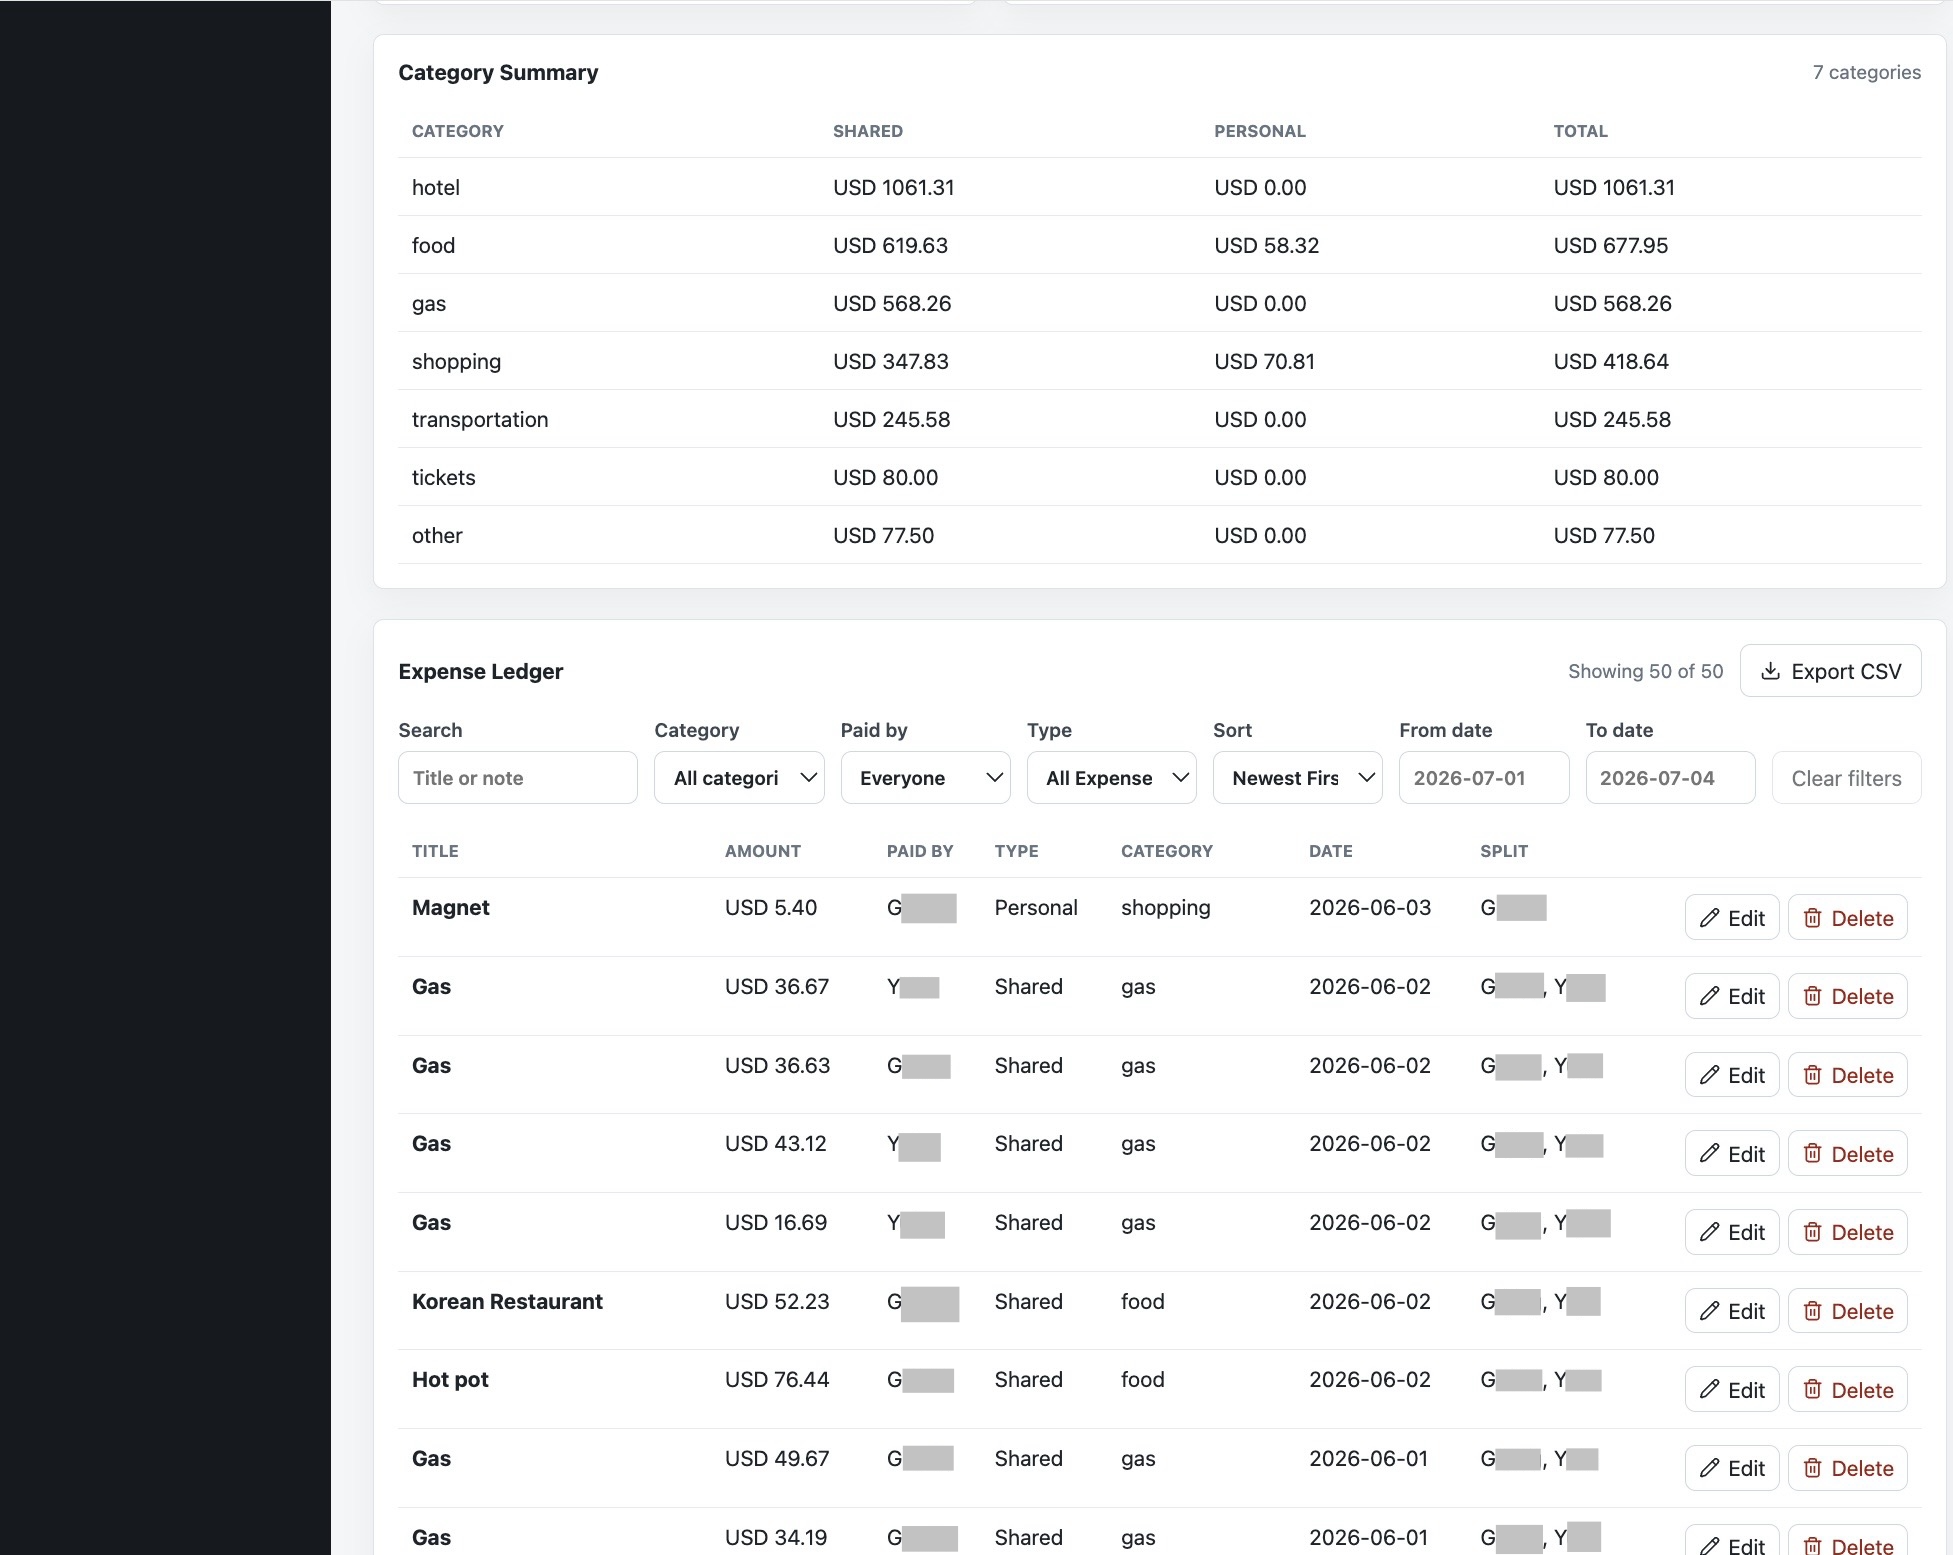
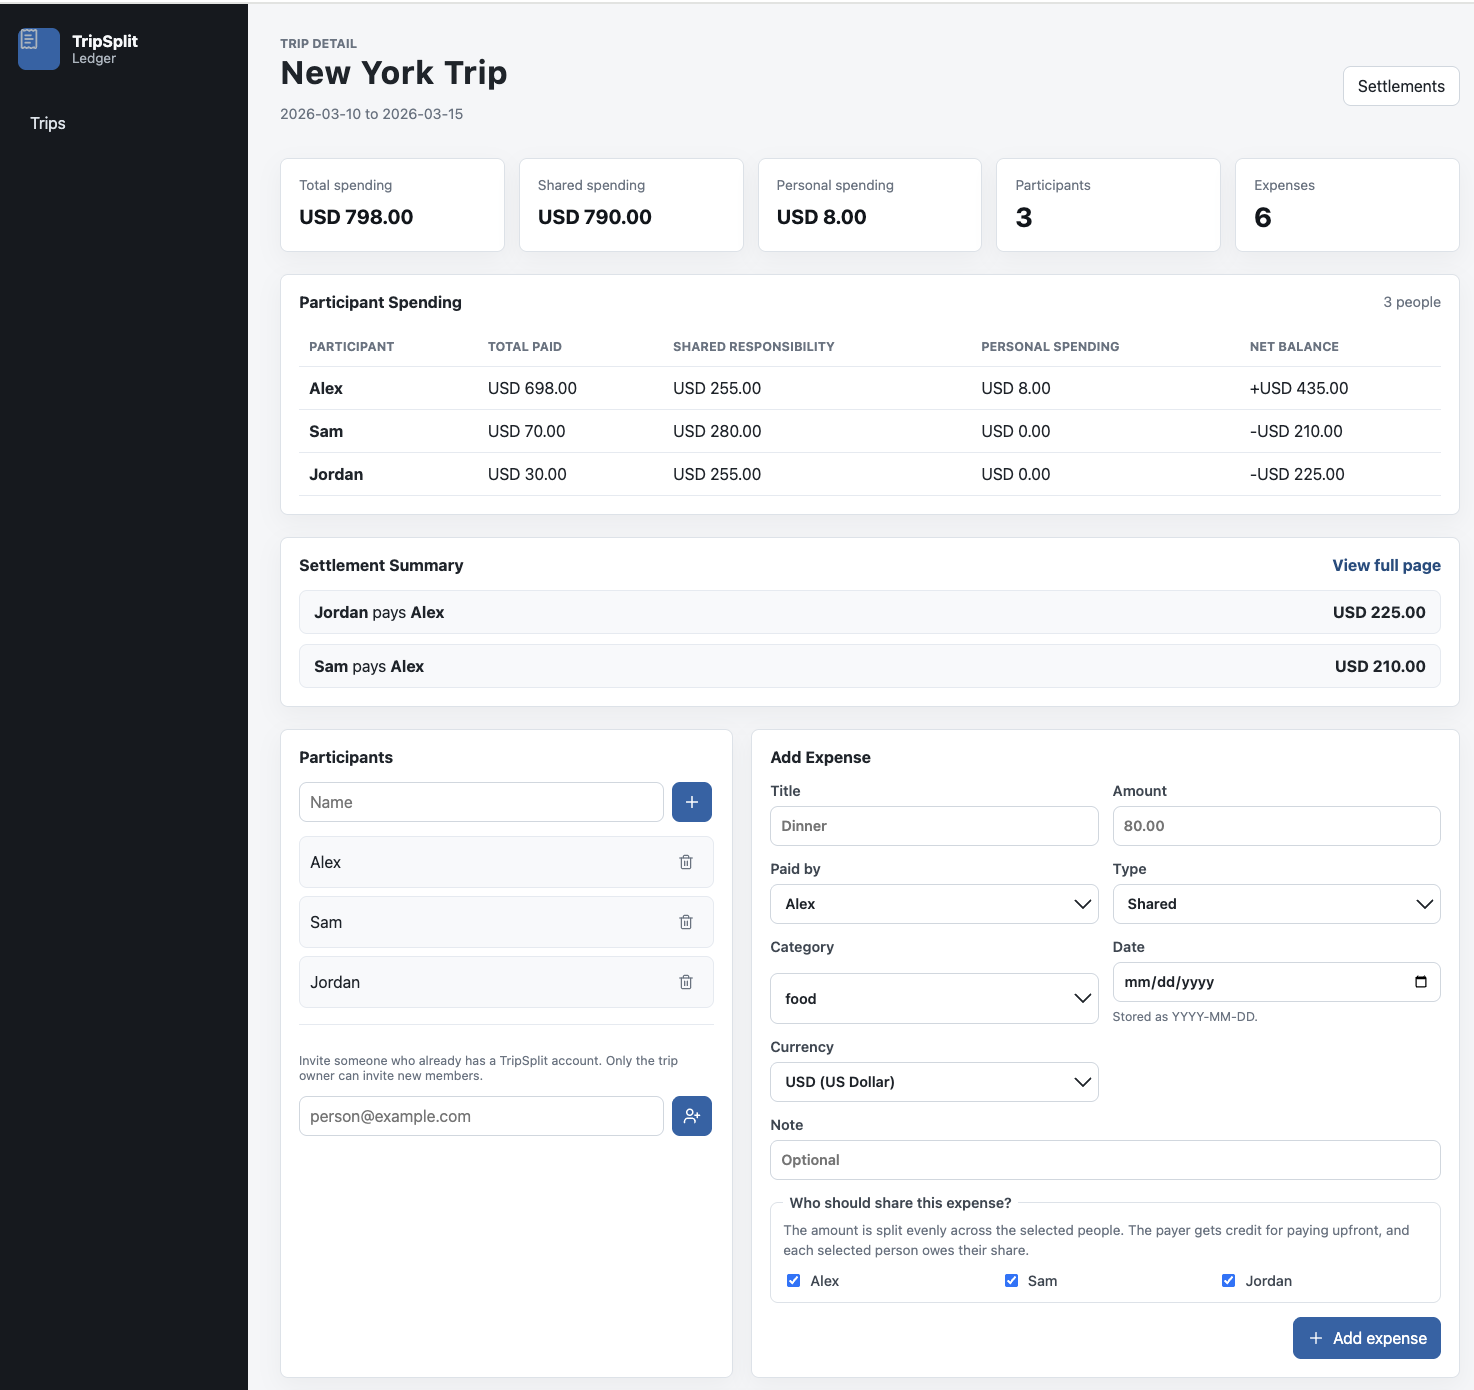
Add live demo link, screenshots, and deployment docs
- Add live demo URL to the top of the README
- Update the Deployment section with the actual Railway/Vercel URLs
- Remove the "not deployed yet" limitation, now that it's live
- Add trip-detail.png and expense-ledger.png screenshots (demo account,
  no real user data)

diff --git a/README.md b/README.md
@@ -2,6 +2,8 @@
 
 [![CI](https://github.com/GGGUJINGGG/tripsplit-ledger/actions/workflows/ci.yml/badge.svg)](https://github.com/GGGUJINGGG/tripsplit-ledger/actions/workflows/ci.yml)
 
+**Live demo:** [tripsplit-ledger.vercel.app](https://tripsplit-ledger.vercel.app) — register your own account to try it (see [Deployment](#deployment) for how the frontend/backend are hosted).
+
 After a group trip, I used Splitwise to settle expenses with friends and ran into a few frustrations: the free tier limits how many expenses you can log per day, and it doesn't show a full spending breakdown for the trip — only who owes whom. I wanted to see total spending by category, by day, and per person, not just the final settlement numbers.
 
 That gap was the starting point. As I logged our actual trip expenses into an early version of this app, I kept noticing other things I wanted — filtering, expense types, CSV export, a per-person spending summary — and added them one by one. TripSplit Ledger is the result: a personal expense tracker built around how I actually think about group travel spending.
@@ -47,13 +49,11 @@ The current implementation uses a React/Vite frontend, a FastAPI backend, and Po
 
 ## Known Limitations
 
-- **Local development only** — accounts, login, and trip-level authorization are implemented, but the app is not deployed anywhere yet. Running it requires a local PostgreSQL instance and backend/frontend processes.
 - **No multi-currency settlement** — expenses can be tagged with a currency, but settlement calculations are hidden when a trip mixes currencies. Exchange-rate conversion is not yet implemented. The backend's `/dashboard` totals (spending by category/day, paid/owed per person) are also not currency-segmented — they sum raw amounts across currencies, so those numbers aren't meaningful for a mixed-currency trip. The frontend works around this by computing its own per-currency breakdowns instead of relying on those backend fields.
-- **Local development setup** — PostgreSQL currently runs through Docker Compose. Production database configuration and hosted deployment are not yet included.
+- **No frontend UI for trip renaming/deletion or inviting members beyond the invite form** — the API enforces owner-only rules for these, but only invite-by-email has a frontend entry point today.
 
 ## Planned
 
-- Production deployment for the API, database, and frontend
 - Exchange-rate conversion to enable settlements across mixed-currency trips
 - Budget tracking per trip or per category
 
@@ -202,7 +202,12 @@ By default, the frontend calls the backend at `http://localhost:8000/api`.
 
 ## Deployment
 
-The backend deploys as a container (`backend/Dockerfile`) to [Railway](https://railway.app), and the frontend deploys as a static build to [Vercel](https://vercel.com). Both offer free tiers with GitHub-based auto-deploy — pushing to `main` redeploys automatically once connected.
+The backend runs as a container (`backend/Dockerfile`) on [Railway](https://railway.app), and the frontend is a static build on [Vercel](https://vercel.com). Both are connected to this repo's `main` branch — pushing redeploys them automatically.
+
+- **Frontend:** https://tripsplit-ledger.vercel.app
+- **Backend health check:** the Railway service's `/api/health` endpoint
+
+The steps below are what was actually used to stand this up, kept here so the deployment is reproducible.
 
 ### Backend on Railway
 
